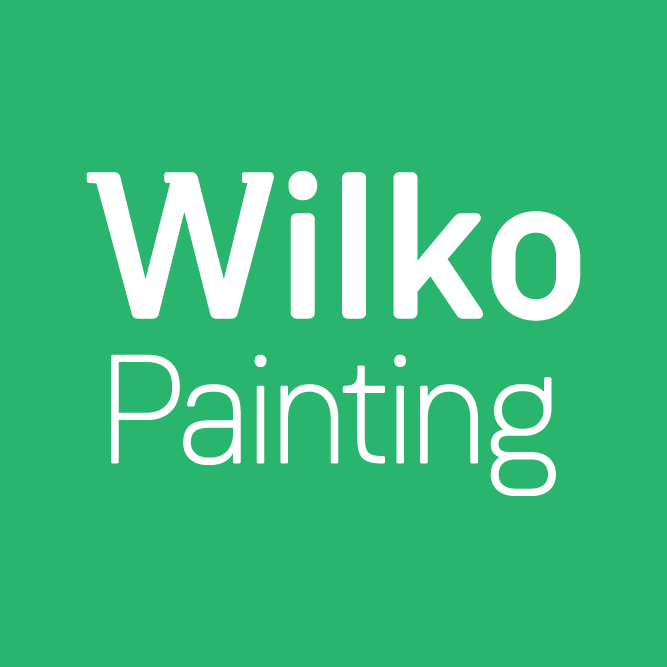
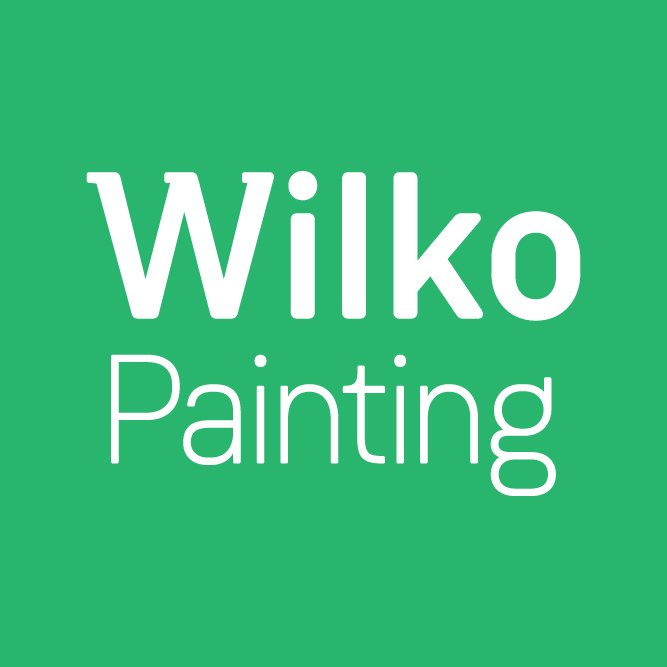
Compress wilko painting image

diff --git a/gulpfile.js b/gulpfile.js
@@ -37,7 +37,7 @@ var
         var out = 'build/img/';
         return gulp.src('src/img/**/*')
         .pipe(newer(out))
-        .pipe(imagemin({ optimizationLevel: 5 }))
+        .pipe(imagemin({ optimizationLevel: 7 }))
         .pipe(gulp.dest(out));
     });
 
